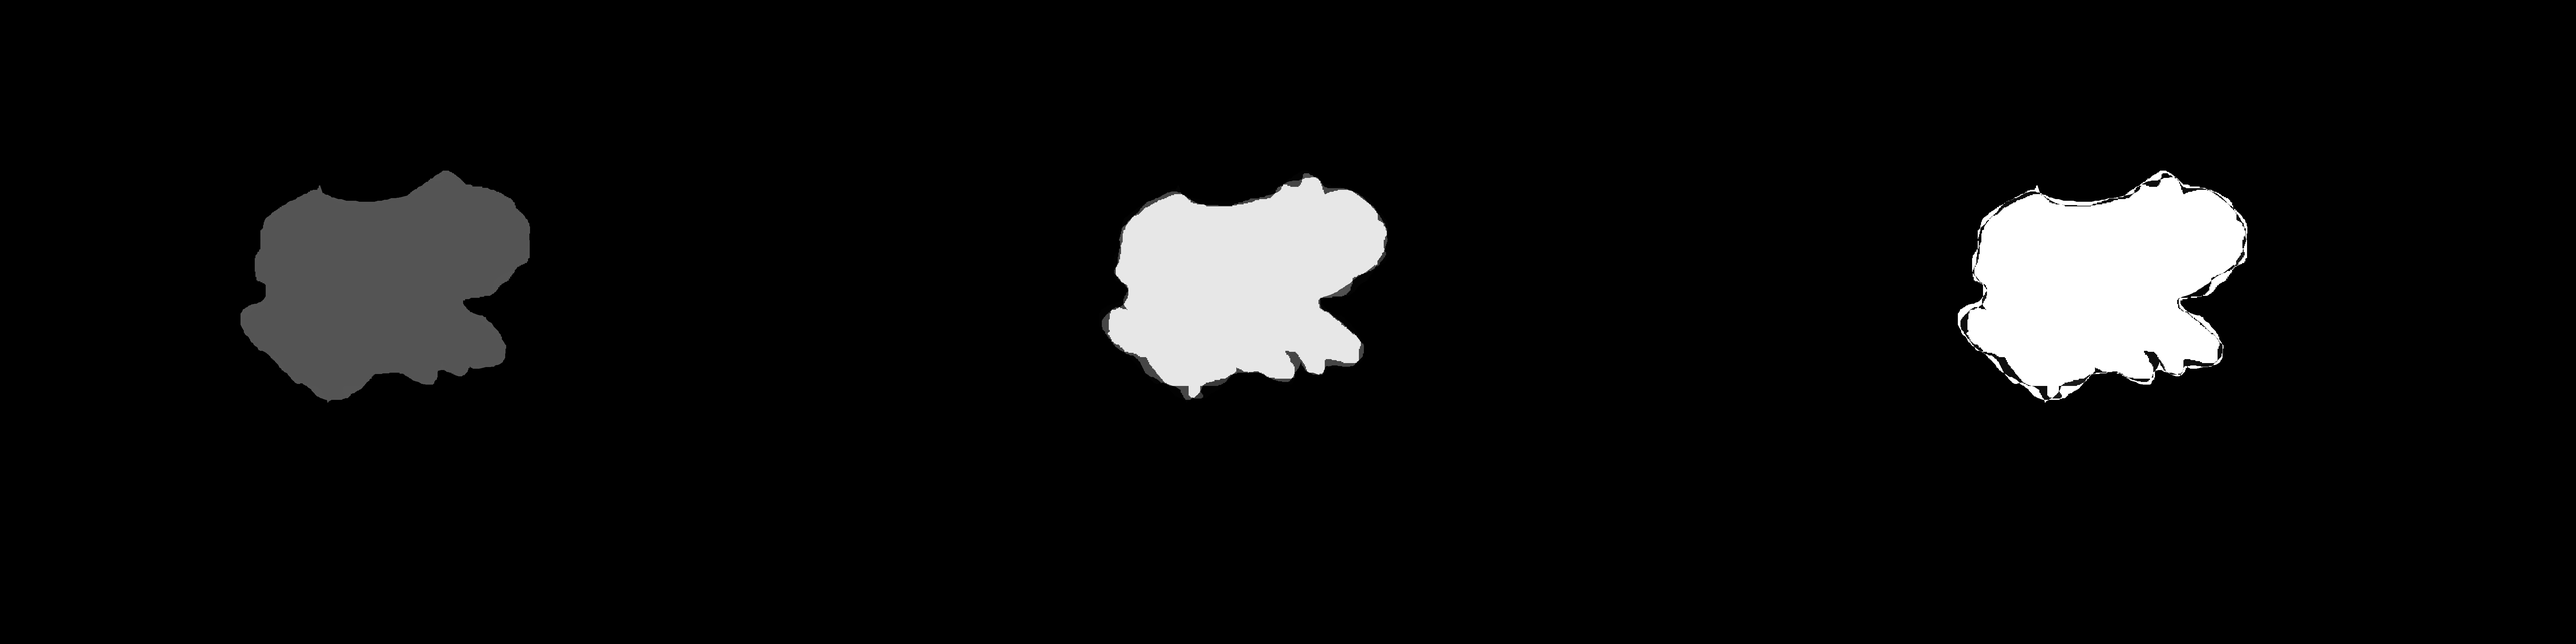
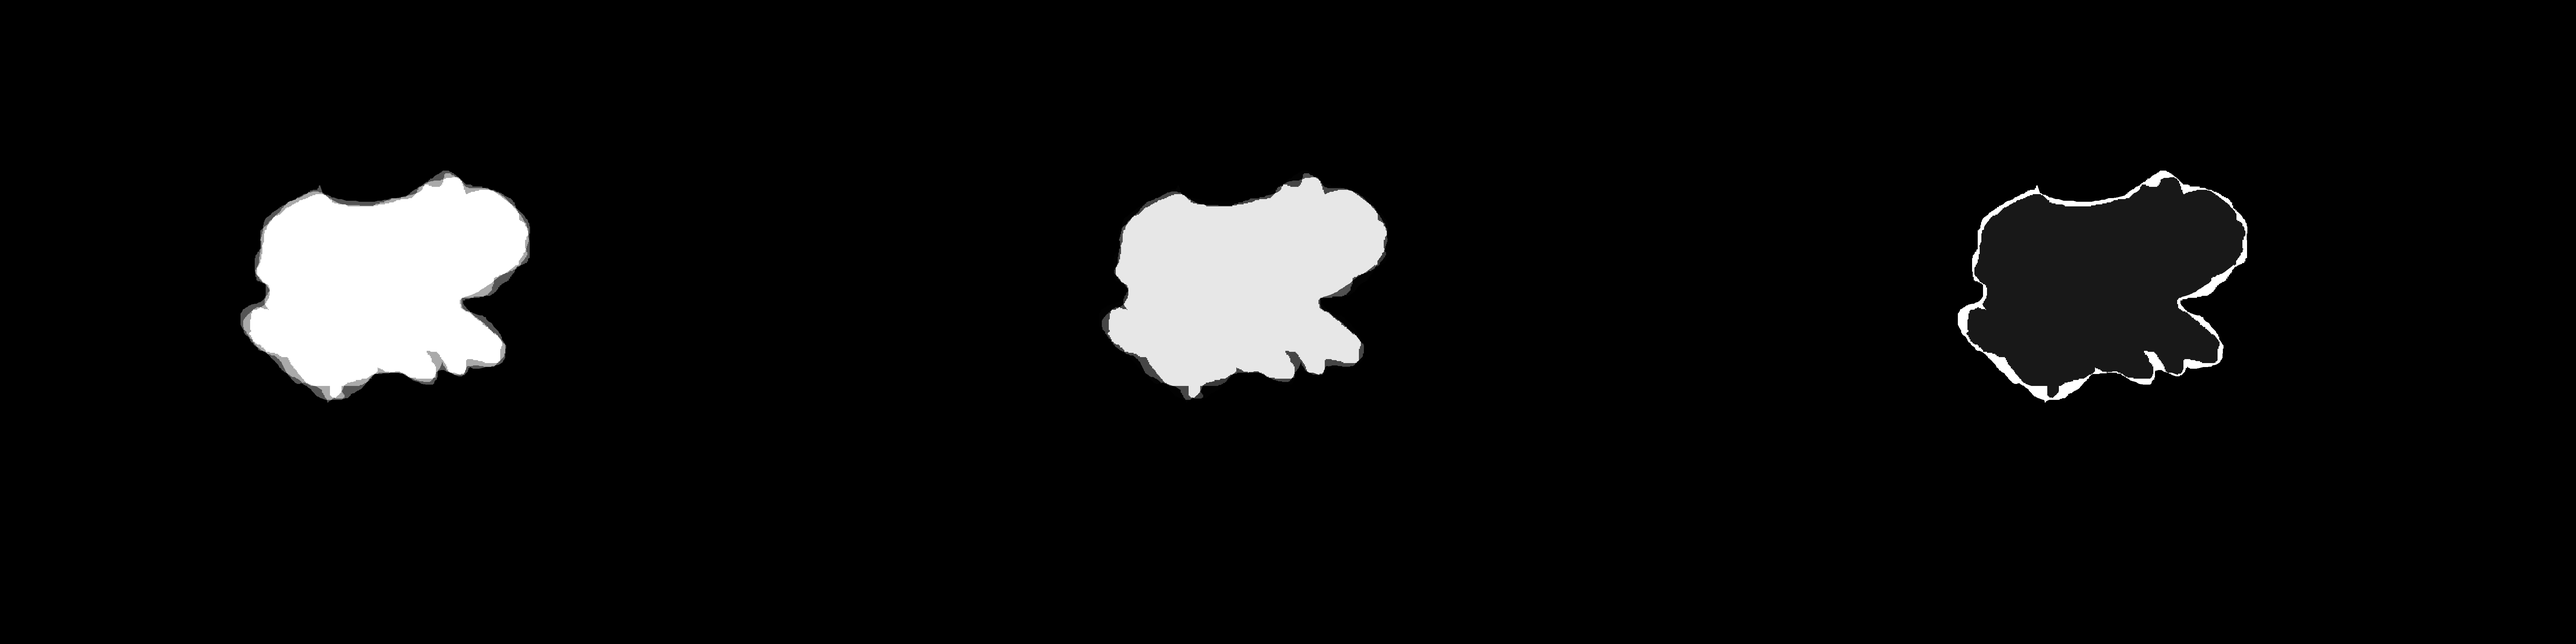
new gt

Changed region(s): [[0.75, 0.2778, 0.875, 0.6173], [0.0938, 0.2778, 0.2188, 0.6173]]

diff --git a/bin/maximum_likelihood_gt.py b/bin/maximum_likelihood_gt.py
@@ -48,9 +48,9 @@ def load_masks(input_path_AR, input_path_HS, input_path_SG, input_path_avrg, idx
 
 def compute_prob_masks(array_AR, array_HS, array_SG):
     
-    array_AR = array_AR
-    array_HS = array_HS
-    array_SG = array_SG
+    array_AR = array_AR / 255.
+    array_HS = array_HS / 255.
+    array_SG = array_SG / 255.
     
     prob_array = (array_AR + array_HS + array_SG) / 3
     
@@ -177,16 +177,38 @@ def plot_comparison_PIL(array_prob, new_mask_uint8, save_path, idx):
     diff_mask[diff_mask > 50] = 255
     image_diff = Image.fromarray(diff_mask)
 
-    # Create a new image combining the three images horizontally
-    combined_image = Image.new("L", (image_prob.width * 3, image_prob.height))
-    combined_image.paste(image_prob, (0, 0))
-    combined_image.paste(image_new_mask, (image_prob.width, 0))
-    combined_image.paste(image_diff, (image_prob.width * 2, 0))
+    # # Create a new image combining the three images horizontally
+    # combined_image = Image.new("L", (image_prob.width * 3, image_prob.height))
+    # combined_image.paste(image_prob, (0, 0))
+    # combined_image.paste(image_new_mask, (image_prob.width, 0))
+    # combined_image.paste(image_diff, (image_prob.width * 2, 0))
+
+    # Create a new figure with three subplots
+    fig, axs = plt.subplots(1, 3, figsize=(12, 4))
+
+    # Display the images in the subplots
+    axs[0].imshow(image_prob, cmap = 'gray')
+    axs[0].set_title("prob Mask")
+    axs[0].axis("off")
+
+    axs[1].imshow(image_new_mask, cmap = 'gray')
+    axs[1].set_title("new Mask")
+    axs[1].axis("off")
+
+    axs[2].imshow(image_diff, cmap = 'gray')
+    axs[2].set_title("diff Mask")
+    axs[2].axis("off")
+
+    # Adjust the spacing between subplots
+    plt.tight_layout()
 
     # Save the combined image
     os.makedirs(save_path, exist_ok = True)
     save_file = os.path.join(save_path, f"comparison_plot_{idx + 1}.png")
-    combined_image.save(save_file)
+    plt.savefig(save_file)
+
+    # Close the figure
+    plt.close(fig)
 
 def load_confusion_matrices(confusion_matrix_paths):
     
@@ -238,6 +260,7 @@ if __name__ == '__main__':
 
     # Convert the new mask to uint8 for visualization
     new_mask_uint8 = (new_mask * 255).astype(np.uint8)
+    prob_array_uint8 = (prob_array * 255).astype(np.uint8)
 
     # Plot the comparison
-    plot_comparison_PIL(prob_array, new_mask_uint8, save_path, idx)
+    plot_comparison_PIL(prob_array_uint8, new_mask_uint8, save_path, idx)
